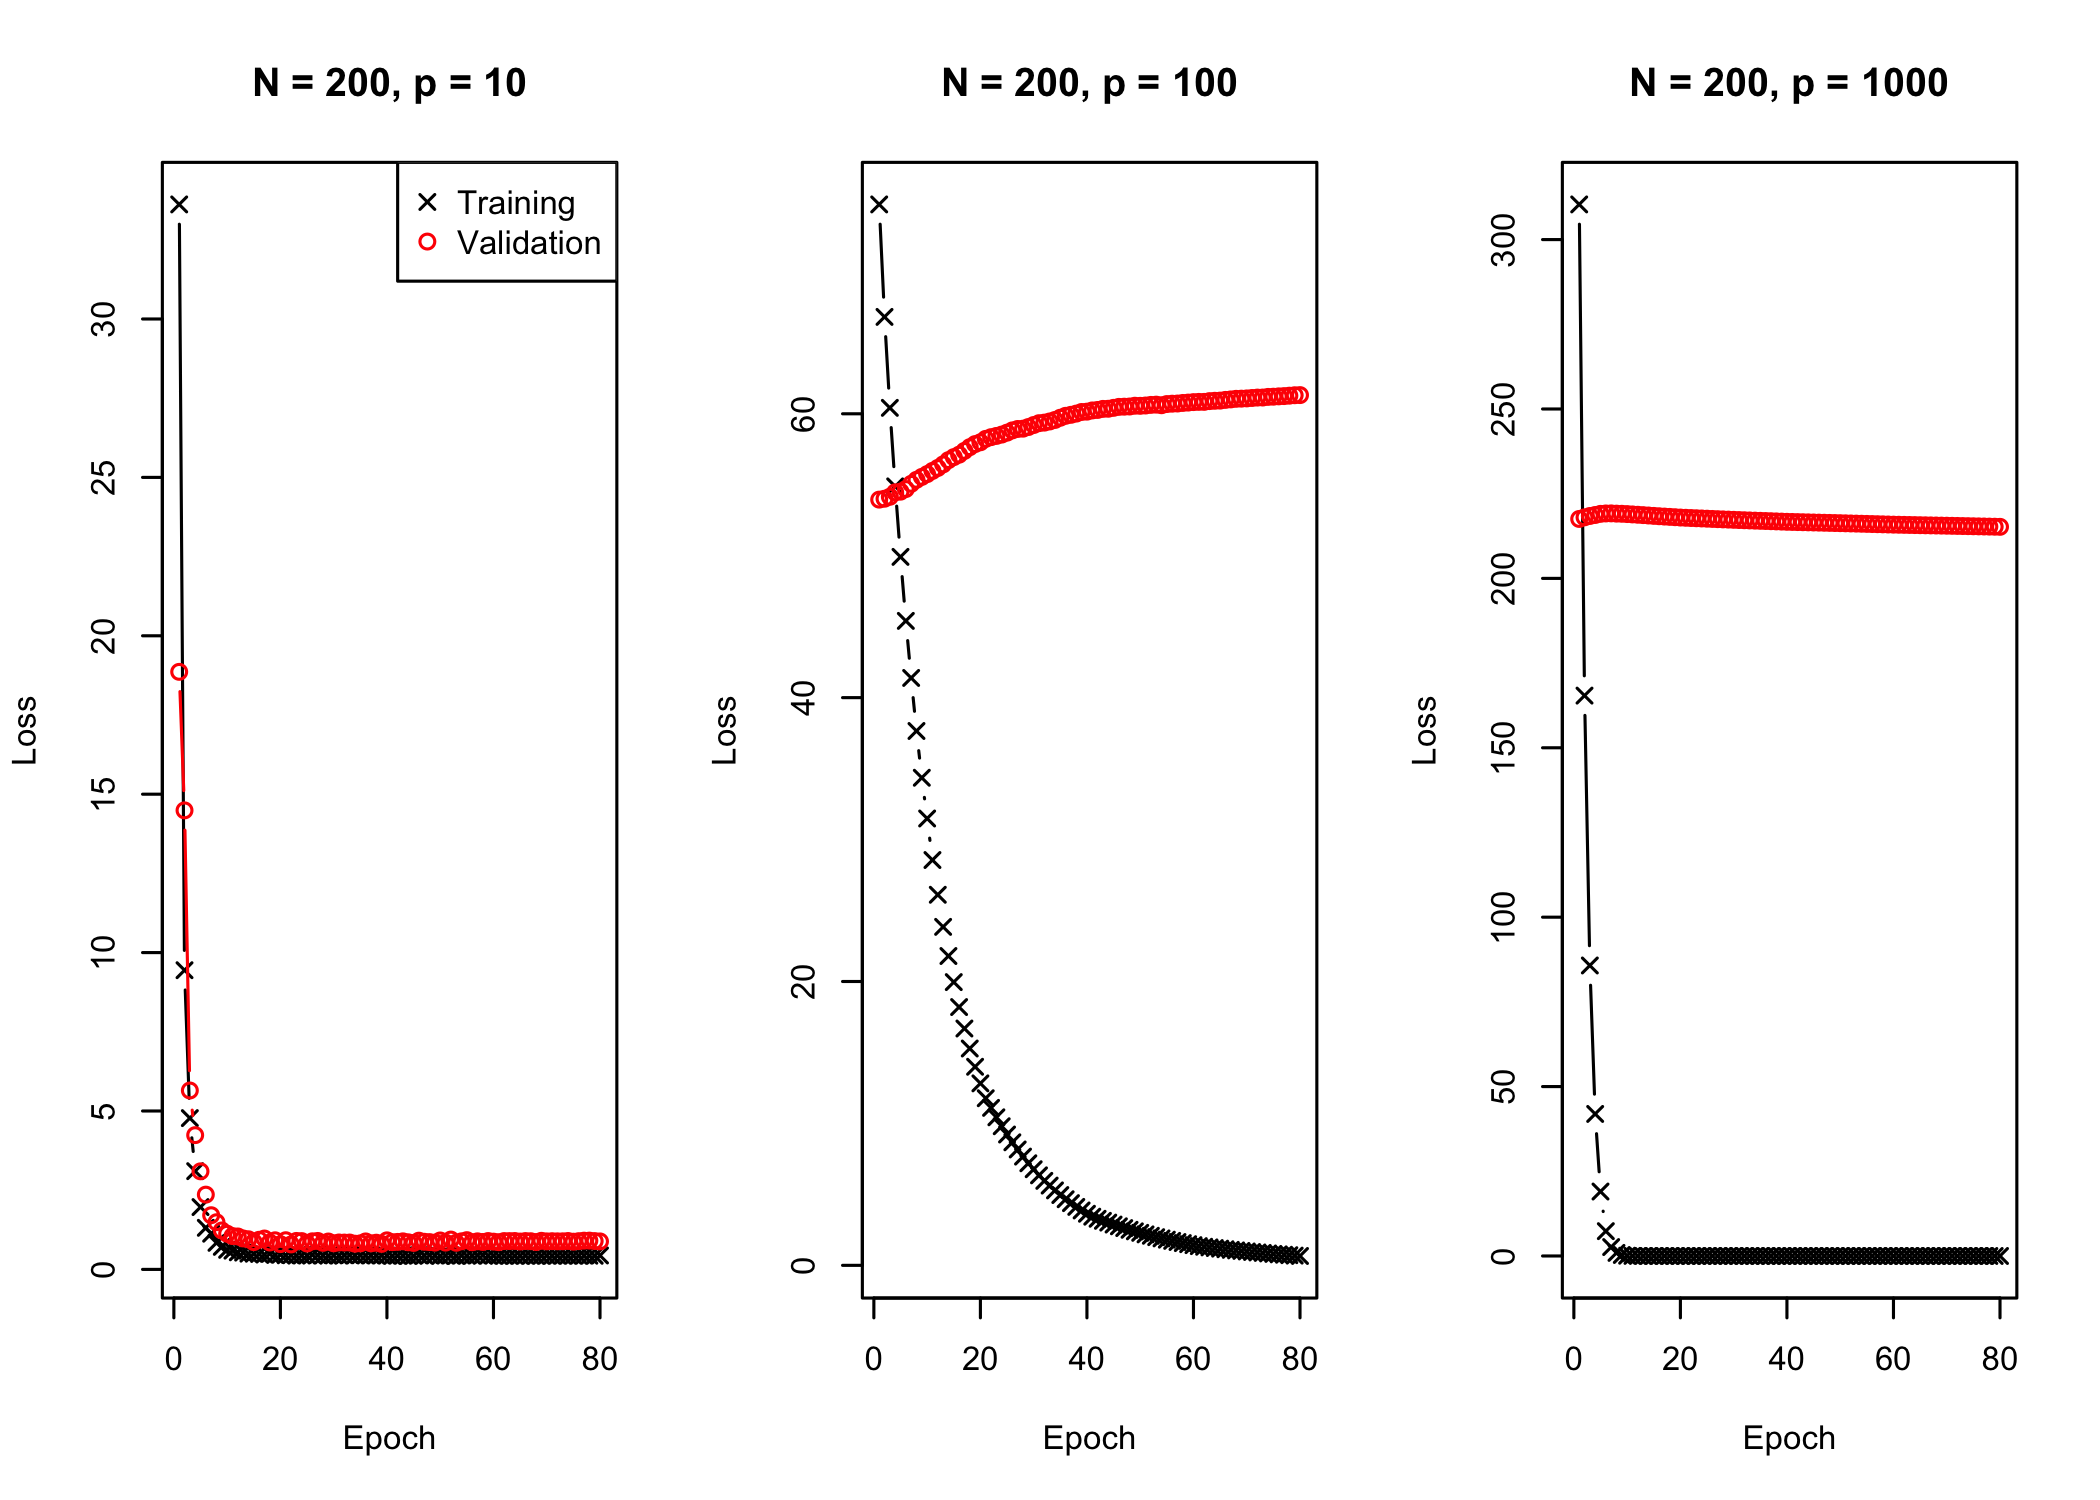
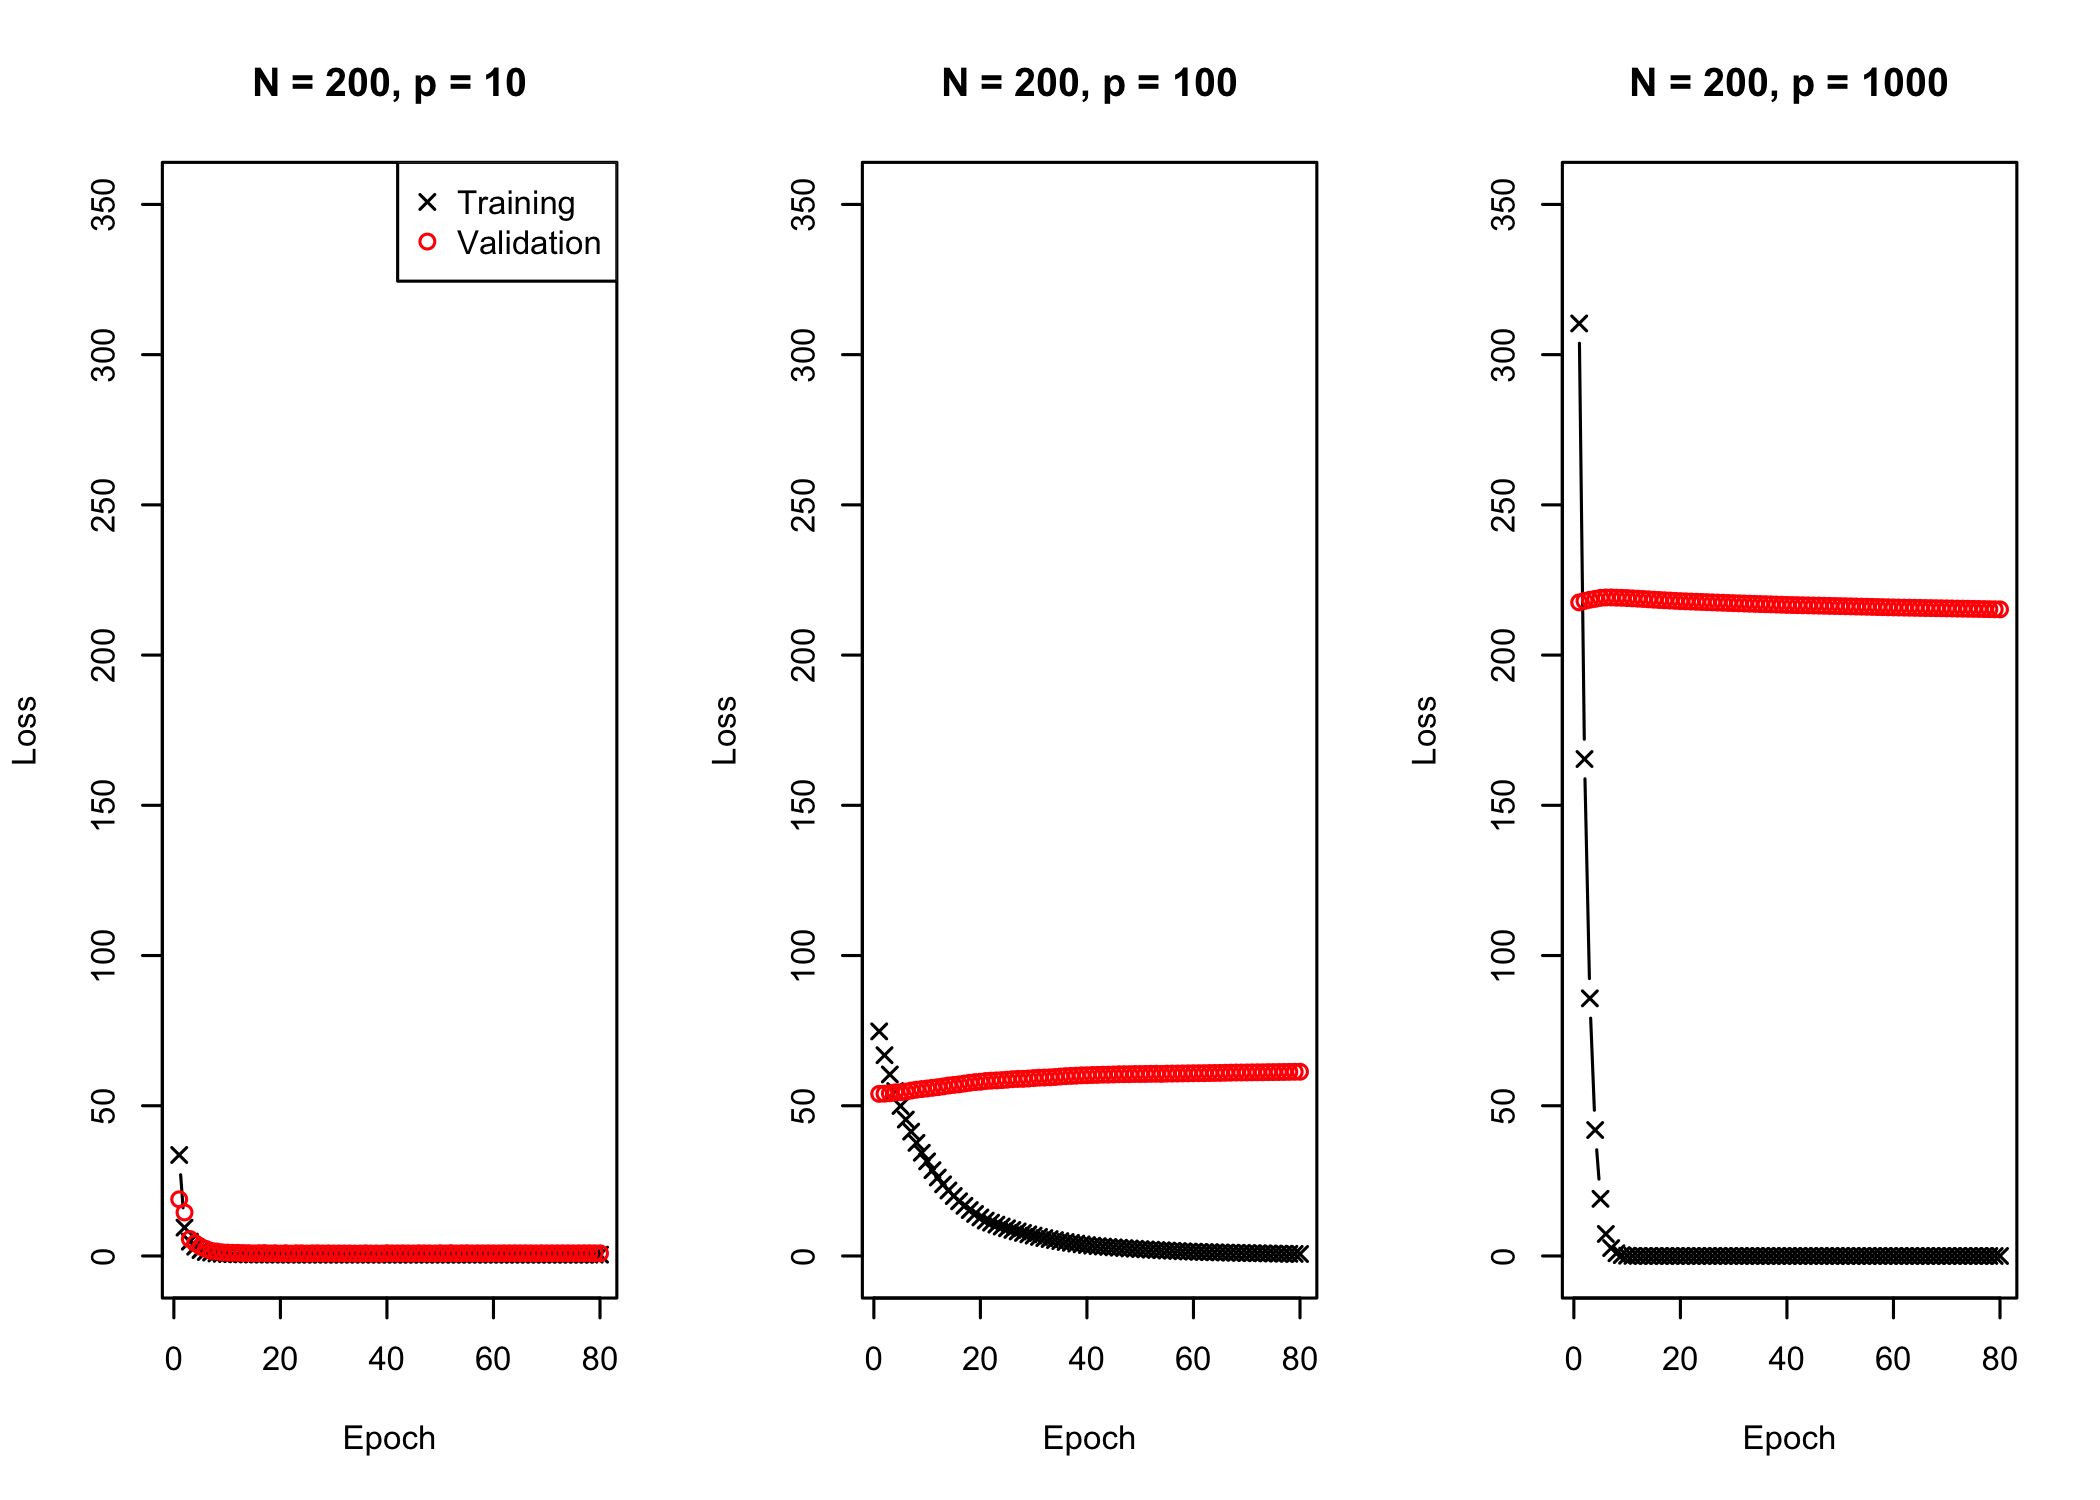
update figures

diff --git a/Simulation_examples.md b/Simulation_examples.md
@@ -43,7 +43,7 @@ RMSprop:
 
 \-\> Adam is a combination of both
 
-## HierNet in the LassoNetR framework
+## 1\. HierNet in the LassoNetR framework
 
 ``` python
 from torch.nn.parameter import Parameter
@@ -128,7 +128,7 @@ for(D_in in c(10L, 100L, 1000L)){
 
 ![](Simulation_examples_files/figure-gfm/unnamed-chunk-12-1.png)<!-- -->
 
-## LassoNet with Feed Forward architecture
+## 2\. LassoNet with Feed Forward architecture
 
 ``` python
 from torch.nn.parameter import Parameter
@@ -191,7 +191,7 @@ fit_allFF_p <- list()
 D_out = 1L
 batch_size = 20L
 N = 200L
-H = 20L
+#H = 20L
 i = 0
 optim = c("SGD", "ADAM", "ADAM")
 for(D_in in c(10L, 100L, 1000L)){
@@ -204,7 +204,7 @@ for(D_in in c(10L, 100L, 1000L)){
     5*X[, 5] - 1.*X[, 1]*X[, 2] + 2*X[, 5]*X[,6]
   fit_allFF_p[[i]] <- LassoNetR(X = X, Y = y, 
                             NN = py$torch_hiernet, 
-                            D_in = D_in, D_out = D_out, H = H, 
+                            D_in = D_in, D_out = D_out, H = D_in, 
                             batch_size=batch_size, lam = 5L, M = 1L, 
                             n_epochs = 80L, valid = TRUE, optimizer = optim[i],
              alpha0 = al0[i])
@@ -213,14 +213,14 @@ for(D_in in c(10L, 100L, 1000L)){
 
 ![](Simulation_examples_files/figure-gfm/unnamed-chunk-21-1.png)<!-- -->
 
-## Does the validation loss get besser for larger M (M = 500)?
+### Does the validation loss get better for larger M (M = 500)?
 
 ``` r
 fit_allFF_pM <- list()
 D_out = 1L
 batch_size = 20L
 N = 200L
-H = 20L
+#H = 20L
 i = 0
 optim = c("SGD", "ADAM", "ADAM")
 for(D_in in c(10L, 100L, 1000L)){
@@ -233,7 +233,7 @@ for(D_in in c(10L, 100L, 1000L)){
     5*X[, 5] - 1.*X[, 1]*X[, 2] + 2*X[, 5]*X[,6]
   fit_allFF_pM[[i]] <- LassoNetR(X = X, Y = y, 
                             NN = py$torch_hiernet, 
-                            D_in = D_in, D_out = D_out, H = H, 
+                            D_in = D_in, D_out = D_out, H = D_in, 
                             batch_size=batch_size, lam = 5L, M = 500L, 
                             n_epochs = 80L, valid = TRUE, optimizer = optim[i],
              alpha0 = al0[i])
@@ -241,3 +241,5 @@ for(D_in in c(10L, 100L, 1000L)){
 ```
 
 ![](Simulation_examples_files/figure-gfm/unnamed-chunk-25-1.png)<!-- -->
+
+It does get better for \(p=100\) and worse for \(p=1000\)…
